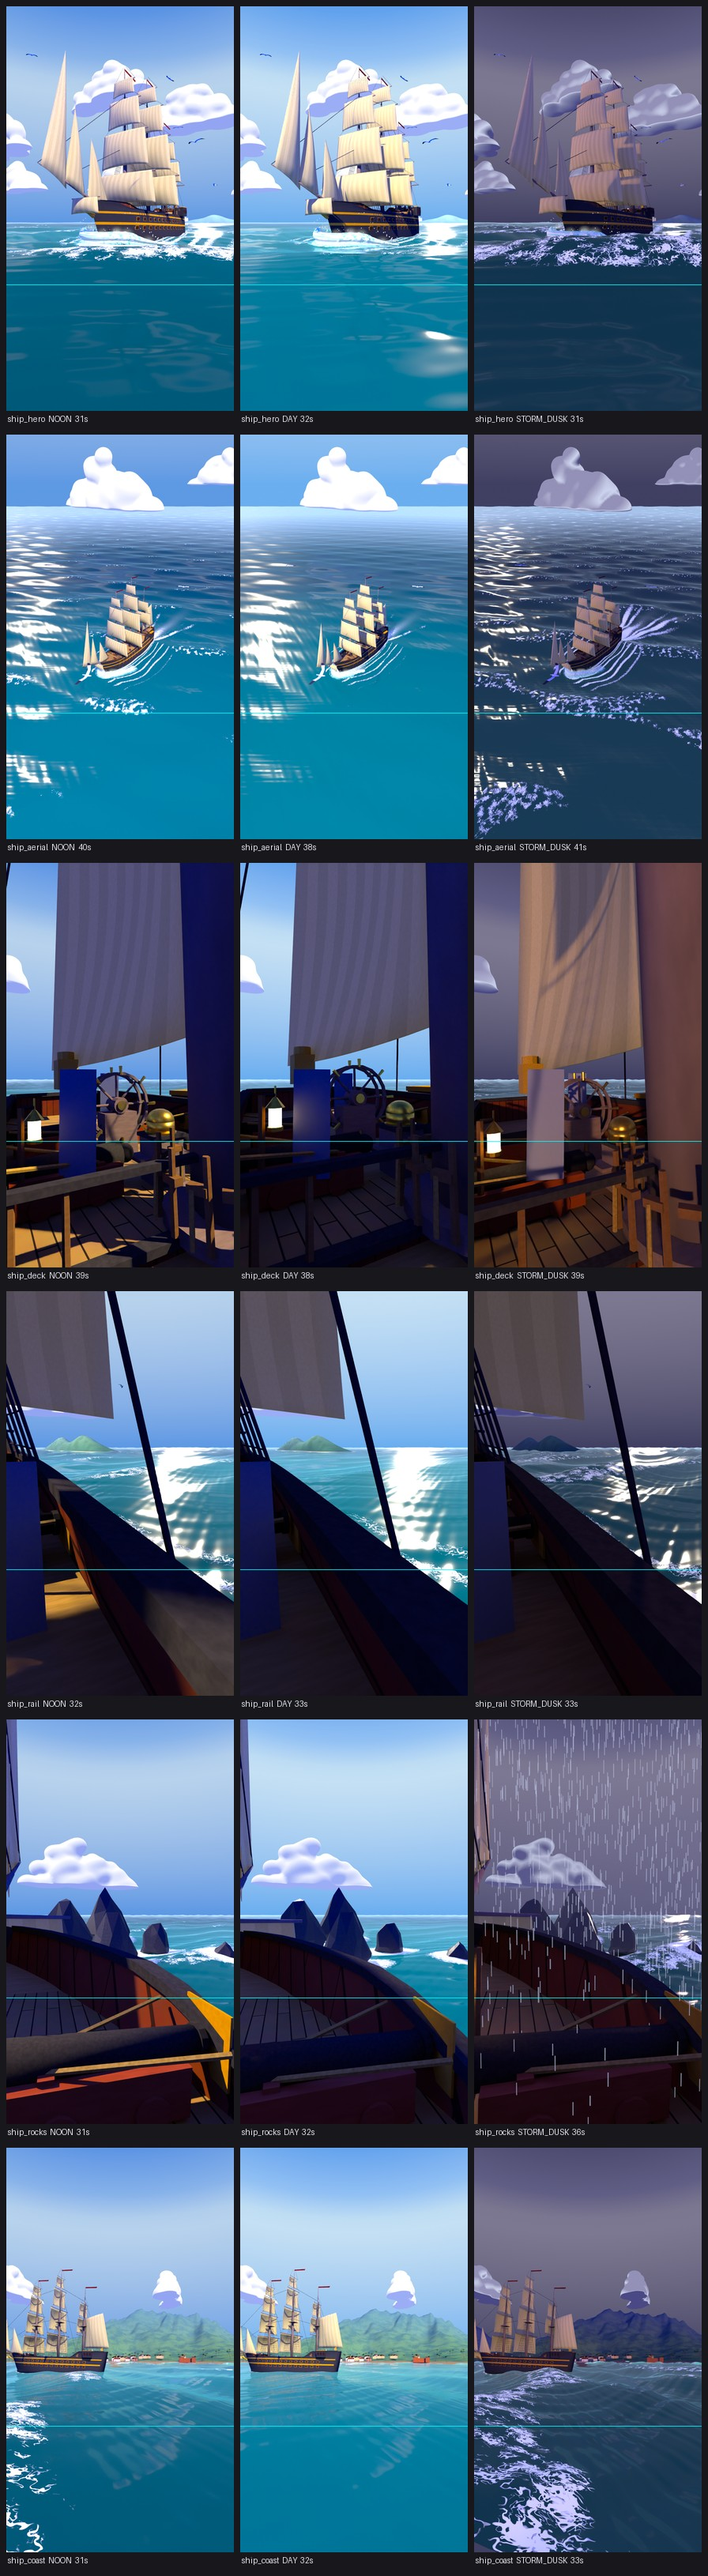
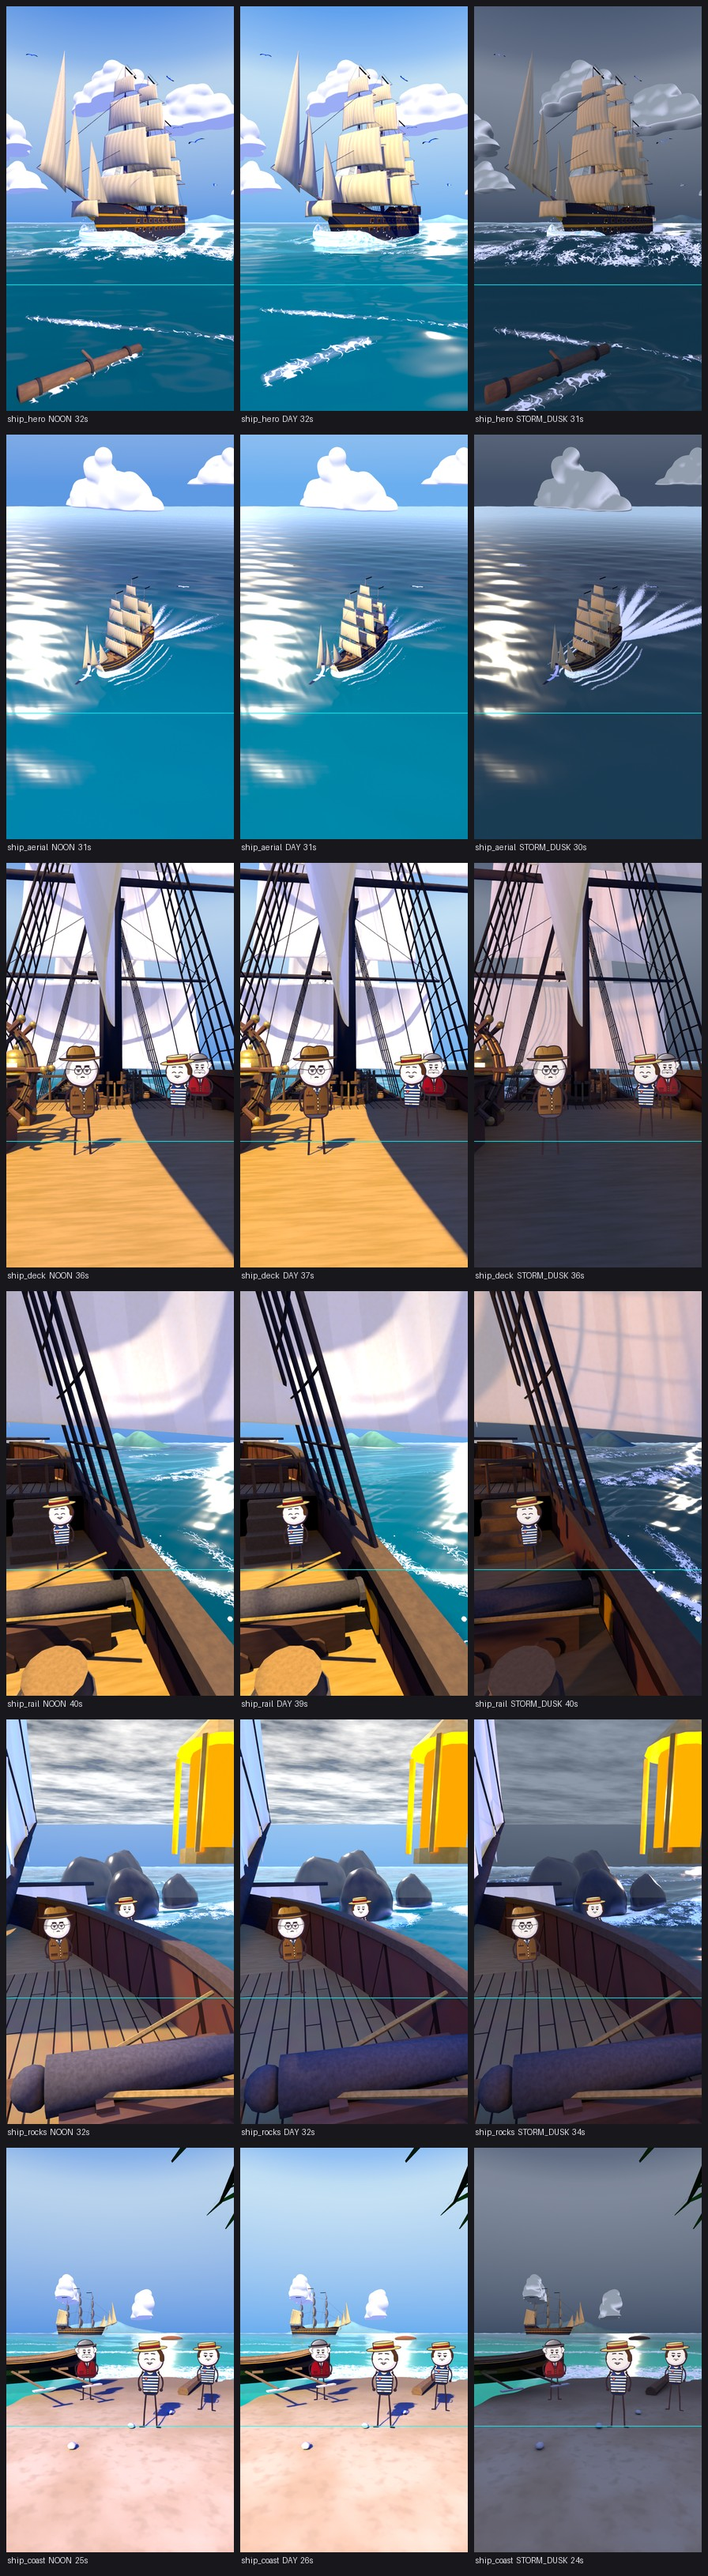
Film 19: remove caption_shade darkening card
Claude-Session: https://claude.ai/code/session_017iwyCuVqr4pVQferrZ24jv

diff --git a/film/v3/set3d19/h19_hall.py b/film/v3/set3d19/h19_hall.py
@@ -93,7 +93,7 @@ def tex_oval(name, m, c, rx, rz, y, n=40, flip=False):
     return mesh_from(name, m, vs, [(0, 1 + k, 1 + (k + 1) % n) for k in range(n)], uvs=uv)
 
 def build_hall(SET, preset, light):
-    root = K.new_root(); M = hall_mats(); SET['M'] = M; rr = rnd(31); PL = LIGHTS[light]; SET['caption_shade'] = dict(y0=770, y1=900, a1=0.5, a2=0.62)
+    root = K.new_root(); M = hall_mats(); SET['M'] = M; rr = rnd(31); PL = LIGHTS[light]; SET['caption_shade'] = None  # director: no bottom darkening card (new effect, not approved)
     K.flat_world('#7a82ff', 0.0, env=('#ffd6a0', 0.9)); SET['samples'] = 8; SET['dbounce'] = 0
     mb = MB('hall'); SET['flames'] = []; fm = M['flame']
     # ---- floor, painted carpet (greyer navy field, crimson + gold border, medallions)

diff --git a/film/v3/set3d19/h19_shop.py b/film/v3/set3d19/h19_shop.py
@@ -234,7 +234,7 @@ def build_exterior(SET, light):
 
 # ----------------------------------------------------------------------------- build
 def build_shop(SET, preset, light):
-    root = K.new_root(); M = shop_mats(); SET['M'] = M; rr = rnd(19); PL = LIGHTS[light]; SET['caption_shade'] = dict(y0=740, y1=890, a1=0.68, a2=0.8)
+    root = K.new_root(); M = shop_mats(); SET['M'] = M; rr = rnd(19); PL = LIGHTS[light]; SET['caption_shade'] = None  # director: no bottom darkening card (new effect, not approved)
     K.flat_world('#7a82ff', 0.0, env=('#ffd6a0', 0.9)); SET['samples'] = 8; SET['dbounce'] = 0
     mb = MB('shop'); fl = []
     # ---- shell
